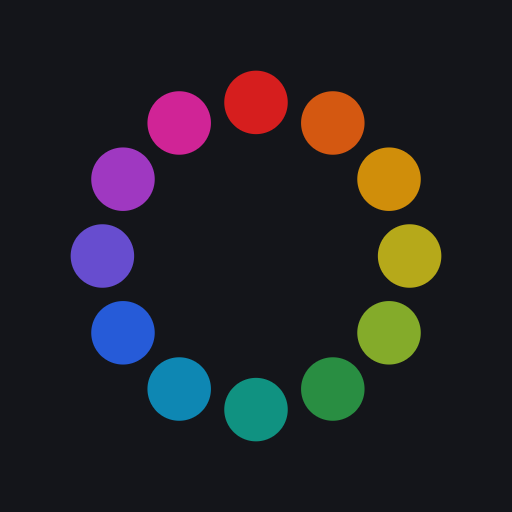
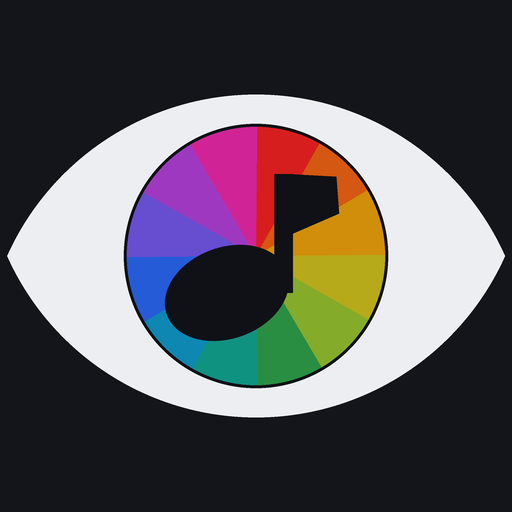
Nuova icona: occhio (vista) con iride a 12 colori dello spettro e nota da ottavo come pupilla (udito) = il concetto sinestetico di Huermony. Cache SW a v2 per propagarla

diff --git a/sw.js b/sw.js
@@ -1,4 +1,4 @@
-const CACHE = 'huermony-v1';
+const CACHE = 'huermony-v2';
 const ASSETS = ['./', './index.html', './manifest.json', './icon-192.png', './icon-512.png', './apple-touch-icon.png'];
 
 self.addEventListener('install', e => {

diff --git a/gen_icons.py b/gen_icons.py
@@ -1,48 +1,80 @@
 #!/usr/bin/env python3
-"""Genera le icone PWA di Huermony: anello dei 12 colori su sfondo scuro. Solo stdlib."""
-import zlib, struct, math, colorsys
+"""Icona Huermony: occhio (vista) con iride a 12 colori (spettro) e una nota
+da ottavo come pupilla (udito). Vista + suono = sinestesia. Richiede Pillow."""
+import colorsys, math
+from PIL import Image, ImageDraw
 
 HUES = [(0,75,48),(22,85,45),(40,90,43),(55,75,41),(78,60,42),(135,55,36),
         (172,80,32),(196,85,38),(222,70,50),(252,58,56),(285,55,49),(320,70,48)]
 BG = (20, 21, 26)
+DARK = (16, 17, 22)
 
-def hsl_rgb(h, s, l):
+def hsl(h, s, l):
     r, g, b = colorsys.hls_to_rgb(h/360.0, l/100.0, s/100.0)
     return (int(r*255), int(g*255), int(b*255))
 
-DOTS = [hsl_rgb(*x) for x in HUES]
+COLS = [hsl(*x) for x in HUES]
 
-def render(size):
-    cx = cy = size / 2.0
-    ring = size * 0.30
-    rad = size * 0.062
-    centers = []
+def render(size, ss=4):
+    S = size * ss
+    img = Image.new("RGB", (S, S), BG)
+    d = ImageDraw.Draw(img)
+    cx = cy = S / 2.0
+
+    # --- occhio a mandorla: intersezione di due cerchi (sopra e sotto) ---
+    eye_w = S * 0.86
+    lens_r = eye_w * 0.62          # raggio dei due cerchi
+    off = math.sqrt(max(lens_r**2 - (eye_w/2)**2, 0))  # curvatura verticale
+    top_c = (cx, cy - lens_r + off)
+    bot_c = (cx, cy + lens_r - off)
+    ma = Image.new("L", (S, S), 0); ImageDraw.Draw(ma).ellipse(
+        [top_c[0]-lens_r, top_c[1]-lens_r, top_c[0]+lens_r, top_c[1]+lens_r], fill=255)
+    mb = Image.new("L", (S, S), 0); ImageDraw.Draw(mb).ellipse(
+        [bot_c[0]-lens_r, bot_c[1]-lens_r, bot_c[0]+lens_r, bot_c[1]+lens_r], fill=255)
+    from PIL import ImageChops
+    lens = ImageChops.darker(ma, mb)            # bianco solo dove dentro entrambi
+
+    # sclera (bianco dell'occhio)
+    white = Image.new("RGB", (S, S), (236, 238, 242))
+    img.paste(white, (0, 0), lens)
+
+    # --- iride: 12 spicchi di spettro ---
+    ir = eye_w * 0.30
+    iris = Image.new("RGB", (S, S), BG)
+    di = ImageDraw.Draw(iris)
+    bbox = [cx-ir, cy-ir, cx+ir, cy+ir]
     for k in range(12):
-        a = math.radians(-90 + k * 30)
-        centers.append((cx + ring * math.cos(a), cy + ring * math.sin(a)))
-    rows = []
-    for y in range(size):
-        row = bytearray()
-        row.append(0)
-        for x in range(size):
-            px = list(BG)
-            for (dx, dy), col in zip(centers, DOTS):
-                d = math.hypot(x + 0.5 - dx, y + 0.5 - dy)
-                if d < rad + 1.0:
-                    cov = min(1.0, max(0.0, rad + 0.5 - d))
-                    px = [int(c * cov + b * (1 - cov)) for c, b in zip(col, px)]
-                    break
-            row += bytes(px)
-        rows.append(bytes(row))
-    raw = b"".join(rows)
-    def chunk(tag, data):
-        c = struct.pack(">I", len(data)) + tag + data
-        return c + struct.pack(">I", zlib.crc32(tag + data) & 0xffffffff)
-    ihdr = struct.pack(">IIBBBBB", size, size, 8, 2, 0, 0, 0)
-    return (b"\x89PNG\r\n\x1a\n" + chunk(b"IHDR", ihdr)
-            + chunk(b"IDAT", zlib.compress(raw, 9)) + chunk(b"IEND", b""))
+        a0 = -90 + k*30 - 0.5
+        di.pieslice(bbox, a0, a0+31, fill=COLS[k])
+    irism = Image.new("L", (S, S), 0)
+    ImageDraw.Draw(irism).ellipse(bbox, fill=255)
+    irism = ImageChops.darker(irism, lens)      # iride tagliata dalle palpebre
+    img.paste(iris, (0, 0), irism)
 
-for name, size in [("icon-512.png", 512), ("icon-192.png", 192), ("apple-touch-icon.png", 180)]:
-    with open(name, "wb") as f:
-        f.write(render(size))
+    # anello scuro sottile attorno all'iride
+    d.ellipse(bbox, outline=DARK, width=max(2, int(S*0.006)))
+
+    # --- nota da ottavo come pupilla (scura) ---
+    nh = ir * 0.42                              # raggio testa nota
+    head = (cx - ir*0.22, cy + ir*0.28)
+    # testa (ellisse leggermente inclinata)
+    htmp = Image.new("RGBA", (S, S), (0,0,0,0))
+    ImageDraw.Draw(htmp).ellipse(
+        [head[0]-nh*1.15, head[1]-nh*0.82, head[0]+nh*1.15, head[1]+nh*0.82], fill=DARK+(255,))
+    htmp = htmp.rotate(20, center=head, resample=Image.BICUBIC)
+    img.paste(htmp, (0,0), htmp)
+    # gambo
+    stem_x = head[0] + nh*1.02
+    stem_top = cy - ir*0.62
+    d.rectangle([stem_x-ir*0.07, stem_top, stem_x+ir*0.07, head[1]], fill=DARK)
+    # bandierina
+    d.polygon([(stem_x+ir*0.05, stem_top),
+               (stem_x+ir*0.05, stem_top+ir*0.46),
+               (stem_x+ir*0.42, stem_top+ir*0.30),
+               (stem_x+ir*0.40, stem_top+ir*0.02)], fill=DARK)
+
+    return img.resize((size, size), Image.LANCZOS)
+
+for name, size in [("icon-512.png",512), ("icon-192.png",192), ("apple-touch-icon.png",180)]:
+    render(size).save(name)
     print(name, "ok")